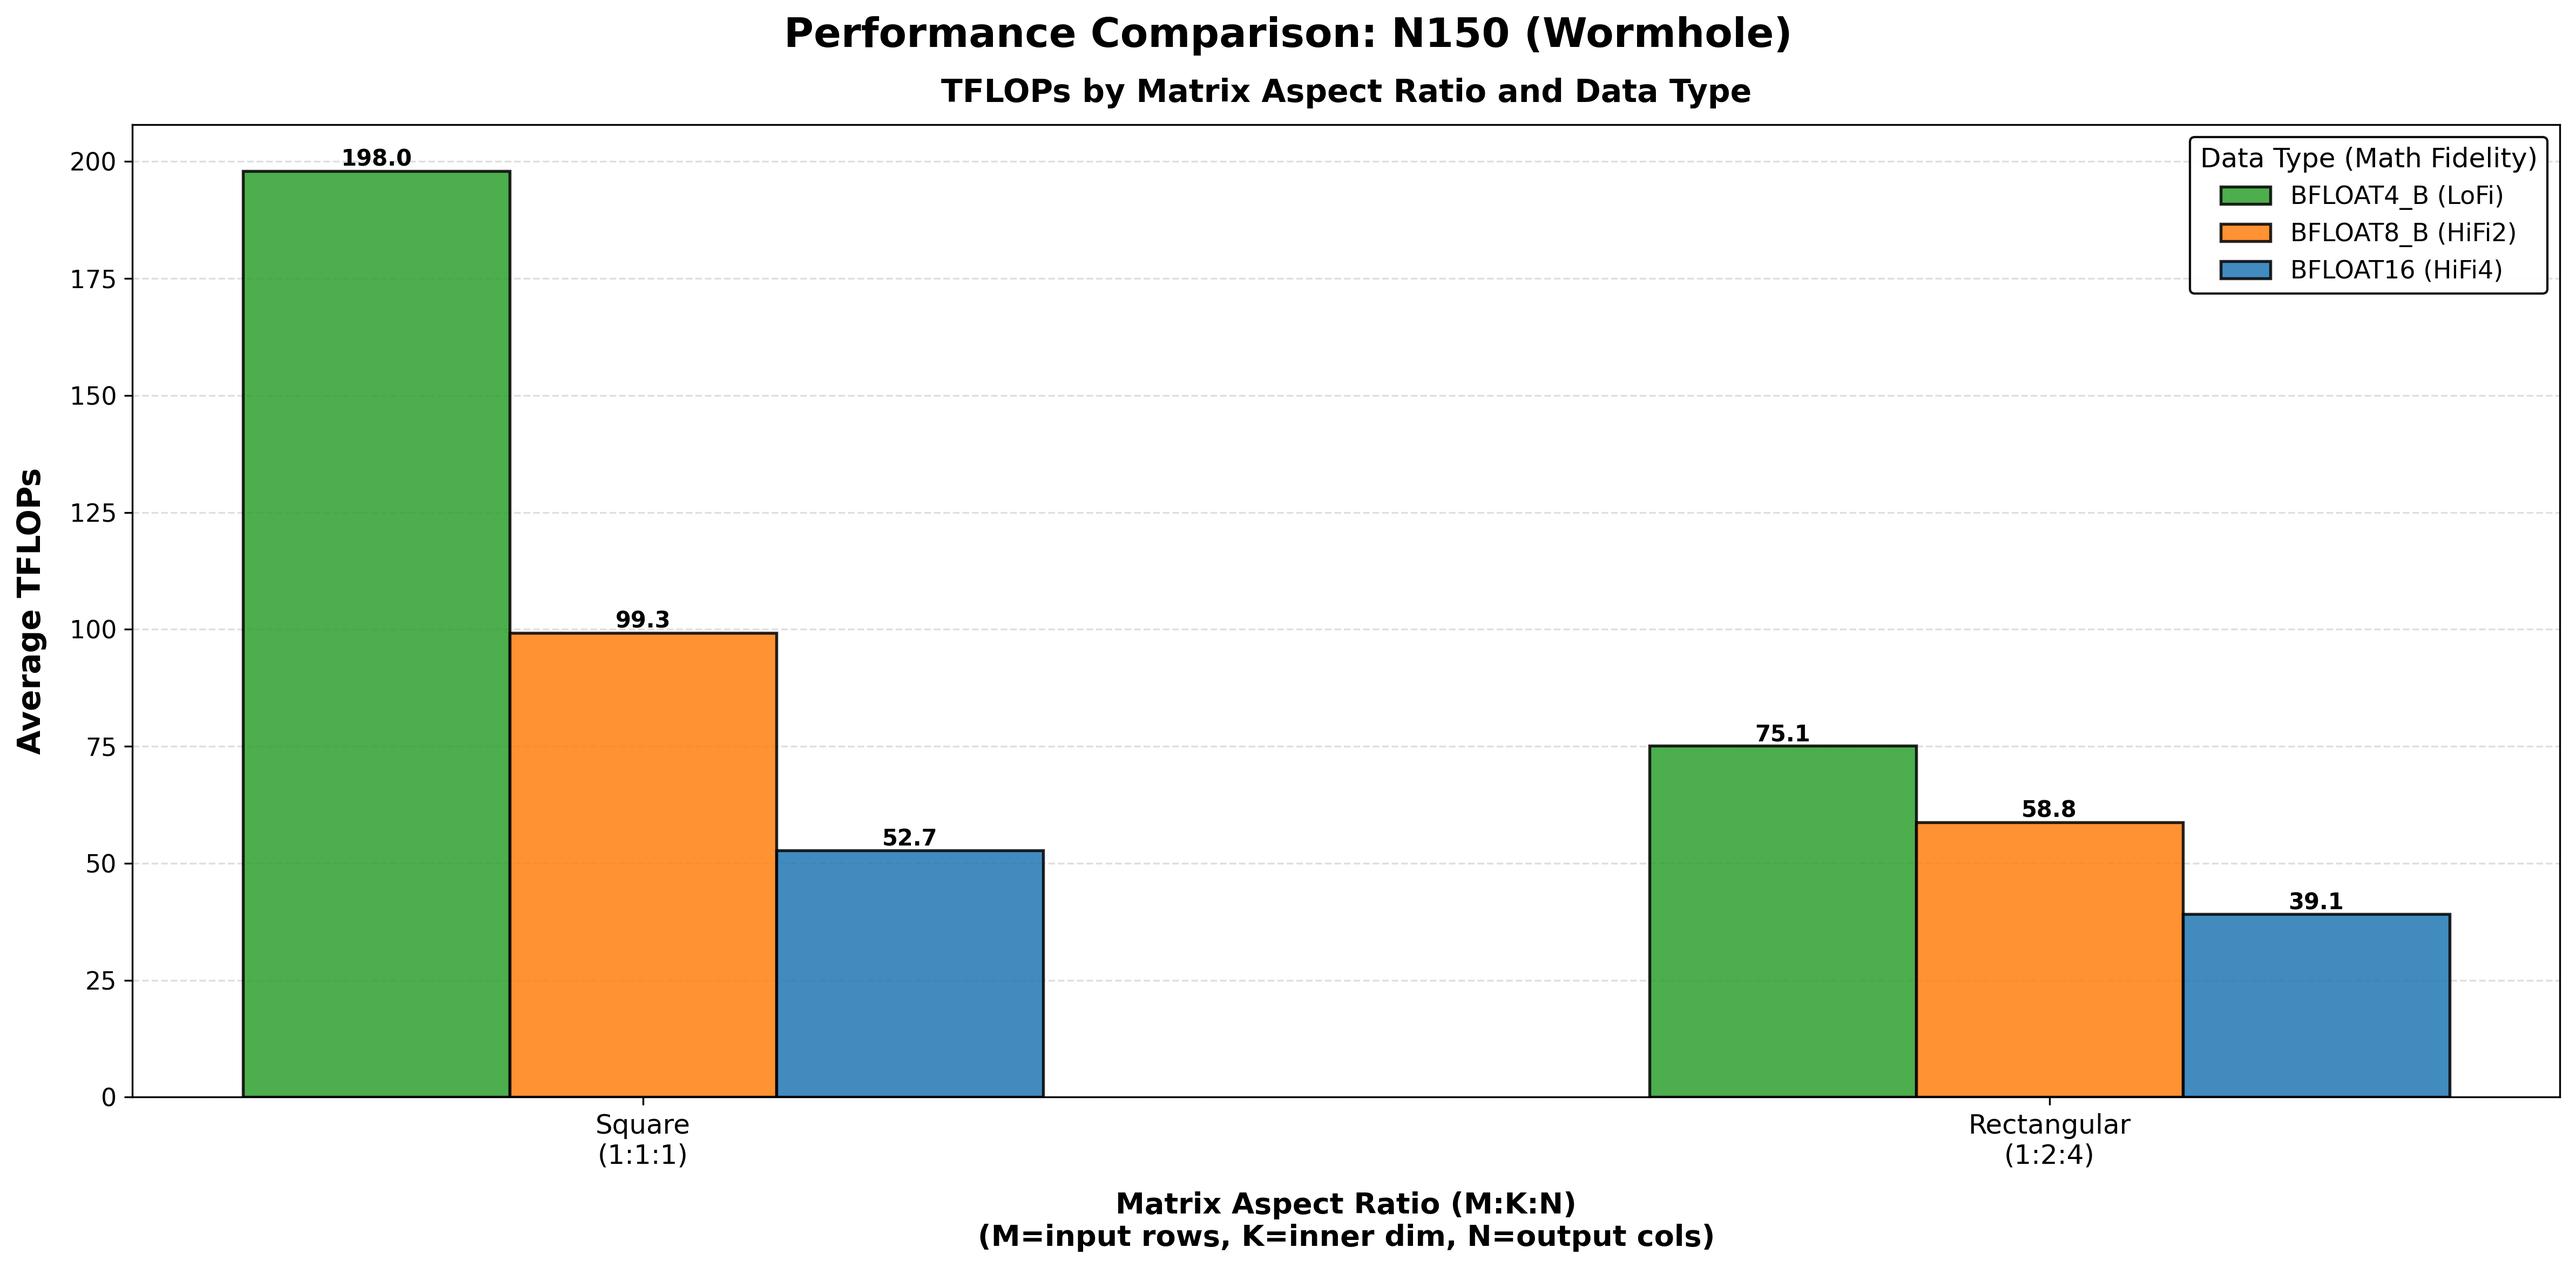
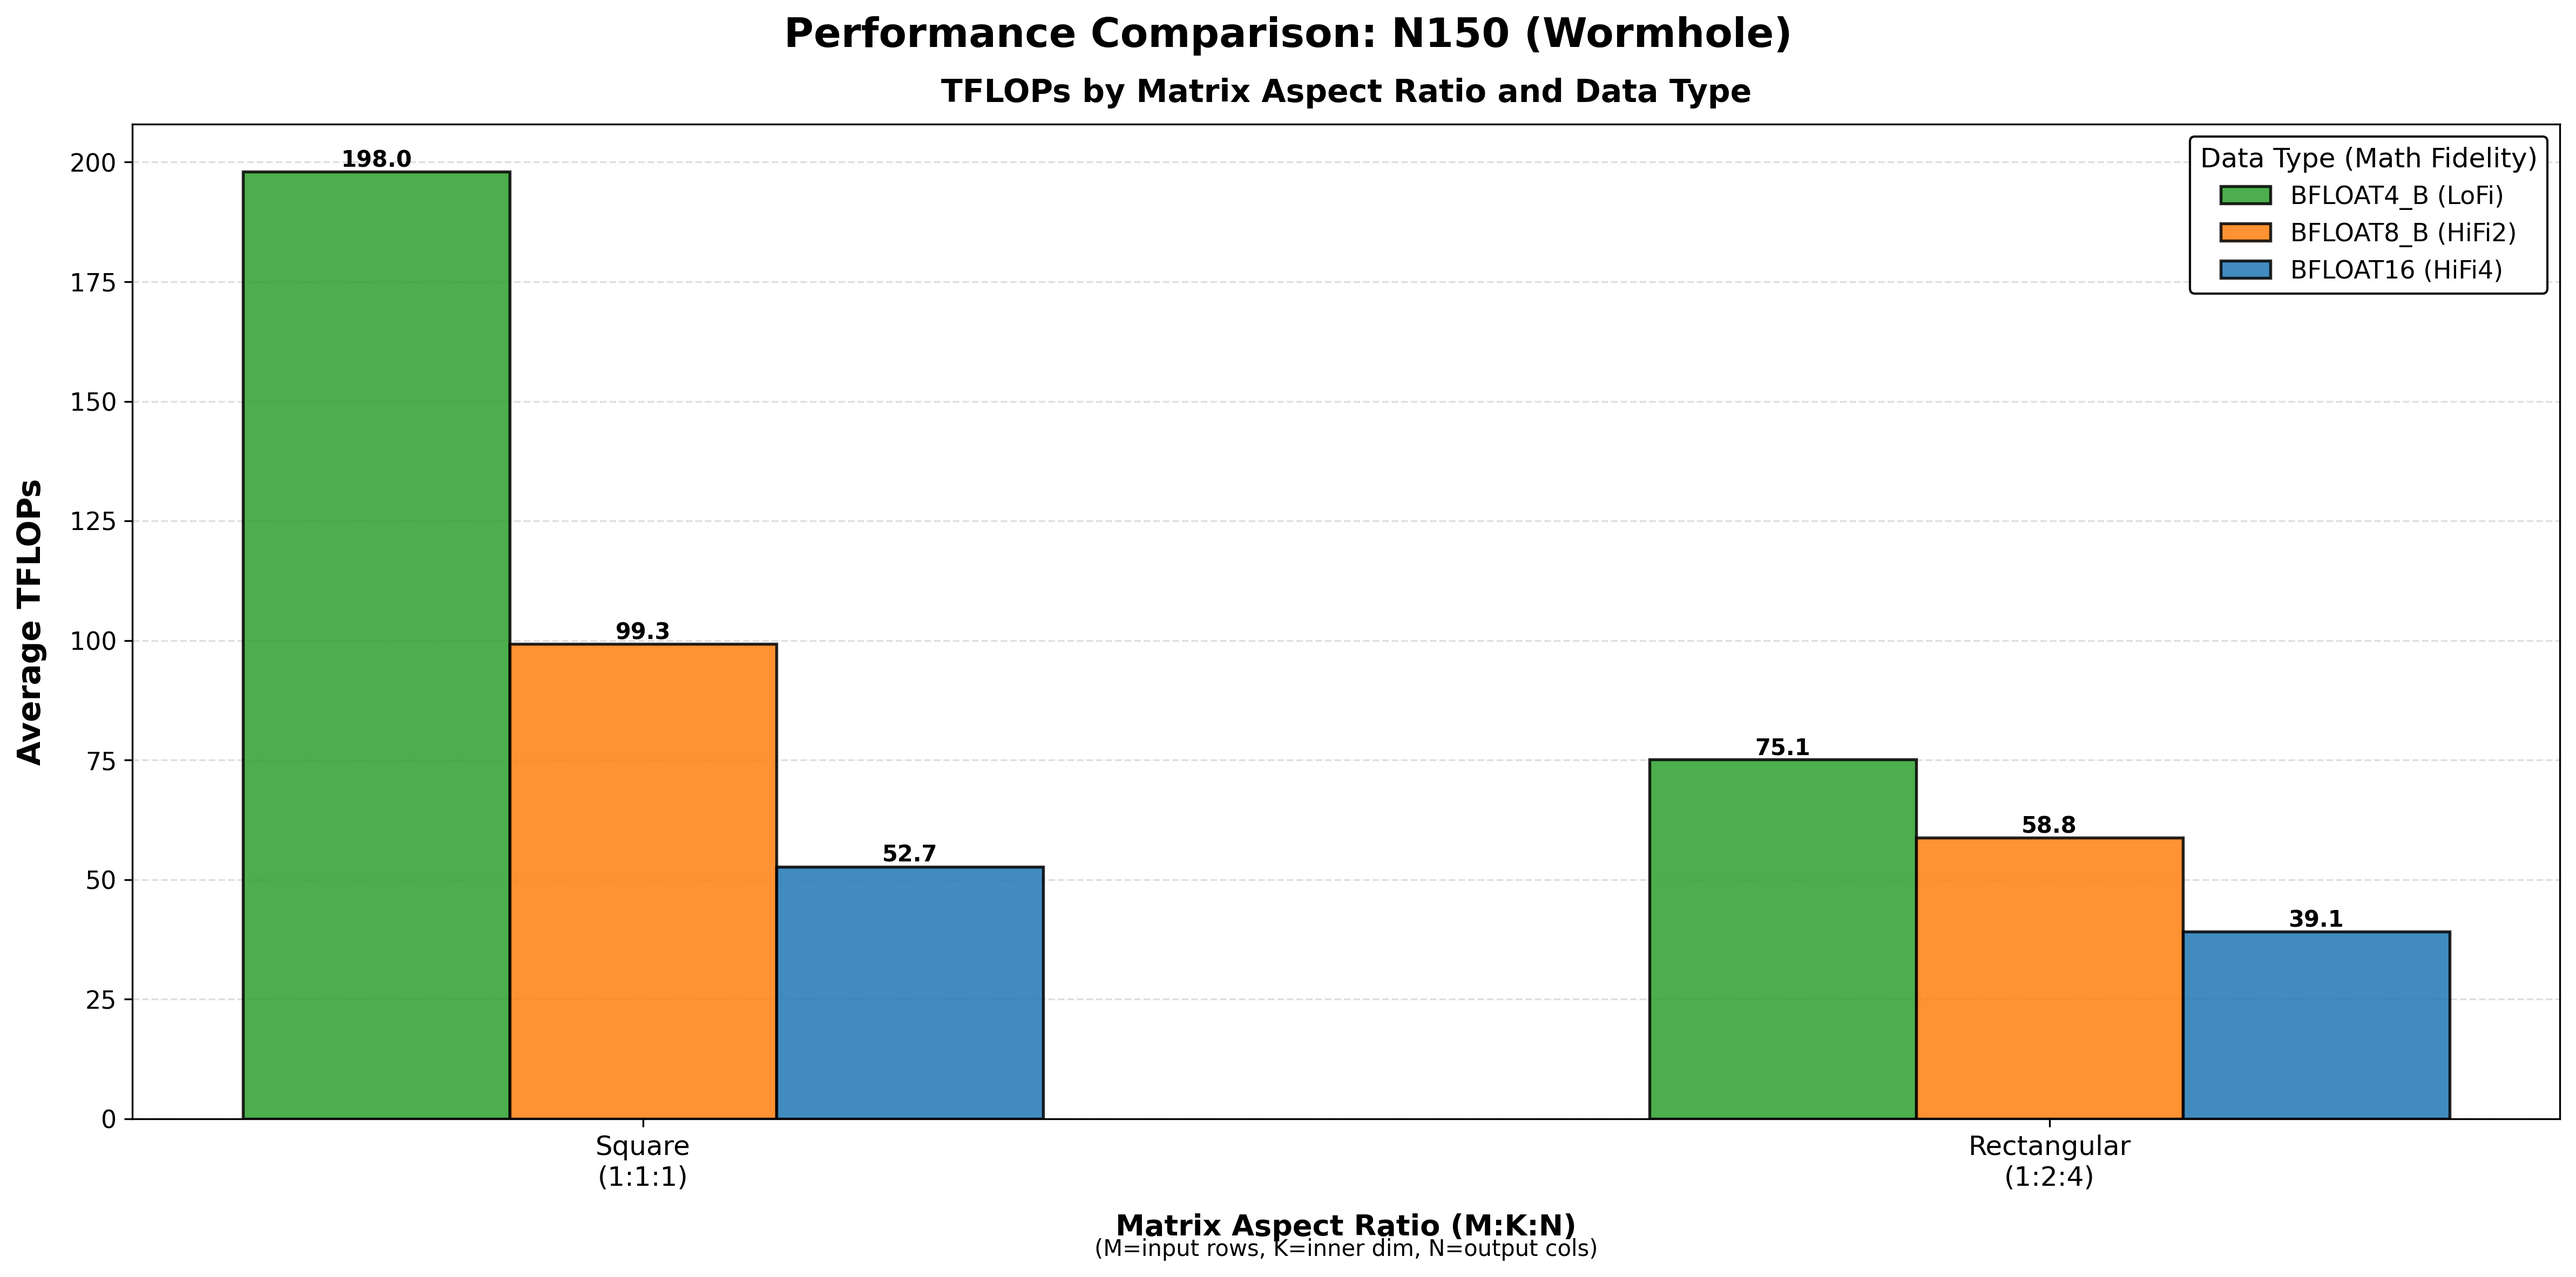
Update tech report

diff --git a/tech_reports/GEMM_FLOPS/plot_aspect_ratio_by_dtype.py b/tech_reports/GEMM_FLOPS/plot_aspect_ratio_by_dtype.py
@@ -204,10 +204,20 @@ for source in ["N150", "P150"]:
 
     ax.set_ylabel("Average TFLOPs", fontsize=14, fontweight="bold", labelpad=10)
     ax.set_xlabel(
-        "Matrix Aspect Ratio (M:K:N)\n(M=input rows, K=inner dim, N=output cols)",
+        "Matrix Aspect Ratio (M:K:N)",
         fontsize=13,
         fontweight="bold",
         labelpad=10,
+    )
+    # Add explanation below x-axis (smaller, non-bold)
+    ax.text(
+        0.5,
+        -0.12,
+        "(M=input rows, K=inner dim, N=output cols)",
+        transform=ax.transAxes,
+        ha="center",
+        va="top",
+        fontsize=10,
     )
 
     # Title matching our other plots

diff --git a/tech_reports/GEMM_FLOPS/GEMM_FLOPS.md b/tech_reports/GEMM_FLOPS/GEMM_FLOPS.md
@@ -5,13 +5,12 @@
 
 Across many families of neural networks and applications, the common denominator is the use of the generalized matrix multiply operation. Depending on the size and the precision of the input and output matrices, different underlying effects, and more importantly performance metrics, can be observed. Classically, this comes down to the hardware's ability to execute an operation, and its ability to fetch the data for that operation intercept.
 
-If the data is small and already in registers, the cost to operate on that data is negligible. If the data is in cache, performance is dictated by how quickly the data can be funnelled thought caches to the compute units. In there worst case scenarios, the data needed is in device memory, host memory, or stored on a disk.
+If the data is small and already in registers, the cost to operate on that data is negligible. If the data is in cache, performance is dictated by how quickly the data can be funnelled through caches to the compute units. In the worst case scenarios, the data needed is in device memory, host memory, or stored on a disk.
 
-Thankfully, matrix multiplication requires more compute operations (2N^3) than memory operations (3n^2). As such, for a given device, there will always be points at which a device is limited by the underlying compute units, not the underlying memory system. We call this point the roofline.
+Thankfully, matrix multiplication requires more compute operations (2N^3) than memory operations (3N^2). As such, for a given device, there will always be points at which a device is limited by the underlying compute units, not the underlying memory system. We call this point the roofline.
 However, said inversion point depends on the size and crossover point of each cache level/memory technology and the datatype in use. The amount of 8 bit elements that can be moved per unit time is nearly an order of magnitude more than 64 bit elements.
 
 Therefore, the peak achieved flops changes based on the datatype, the size of the data, and the layout of the data.
-
 
 ### Running Benchmarks
 
@@ -32,9 +31,9 @@ Python scripts for reproducing the plots are included in this directory.
 
 ## Design of Experiments
 The parameters of interest are 3 fold:
-1. **Dimensions**: The sizes of the matrices along each axis, denoted as m , n and k . (m, k) represents the size of the input tensor, while (k, n) is the size of the activation tensor.
-Larger tensors require more computation since the number of operations needed to perform matrix multiplication increases as O(m*k*n).
-2. **Computation Fidelity**: Referred to as LoFi, HiFi2, HiFi3 and HiFi4. Internally, the matrix engine can adjust the number of bits being processed, which affects both the precision of the results and the computation speed.
+1. **Dimensions**: The sizes of the matrices along each axis, denoted as M, K, and N. (M, K) represents the size of the input tensor, while (K, N) is the size of the weight matrix.
+Larger tensors require more computation since the number of operations needed to perform matrix multiplication increases as O(MKN).
+2. **Computation Fidelity**: Referred to as LoFi, HiFi2, HiFi3, and HiFi4. Internally, the matrix engine can adjust the number of bits being processed, which affects both the precision of the results and the computation speed.
 3. **Input/Output Datatype**: Larger datatypes require more memory for storage. As a result, more precise datatypes can become bottlenecked if stored in DRAM.
 
 For more details please refer to the tech reports [Matrix Engine](../matrix_engine/matrix_engine.md) and [Data Formats](../data_formats/data_formats.md)
@@ -42,18 +41,19 @@ For more details please refer to the tech reports [Matrix Engine](../matrix_engi
 For example, when changing the precision of the matrix, for a given size of matrix the output performance is expected to be different.
 
 
-## Benchmarks
+## MicroBenchmarks
 
 ### Matrix Multiplication TFLOPS on Wormhole/Blackhole (WH/BH)
 
 The WH matrix engine performs 8x16 x 16x16 = 8x16 in a single cycle.
 - This is 2*8\*16\*16 = 4096 multiply-adds in a single cycle.
-- At 1GHz, this is 4 TFLOPS per matrix engine.fed into in0, and 16x16 is the smallest matrix that can be fed into in1.
+- At 1GHz, this is 4 TFLOPS per matrix engine.
+- The 8x16 is the smallest matrix that can be fed into in0, and 16x16 is the smallest matrix that can be fed into in1.
 
 If the input matrices fed into the engine are "shorter" than 8x16, for example 1x16, the engine will still perform 8x16 x 16x16 = 8x16, but the effective throughput will be 1/8.
 Thus, for 1x16 x 16x16 matrices, the effective throughput is 0.5 TFLOPS per matrix engine.
-MATH_FIDELITY is used for higher precision, and TFLOPS are calculated by dividing by the MATH_FIDELITY value.
 
+MATH_FIDELITY is used for higher precision, and TFLOPS are calculated by dividing by the MATH_FIDELITY value.
 - LoFi ->  ~4 TFLOPS
 - HiFi2 -> ~2 TFLOPS
 - HiFi3 -> ~1.33 TFLOPS
@@ -65,15 +65,15 @@ Here we show the peak results we can get from manually selected matmul configura
 
 Depending on the fidelity, datatype, and matrix shape chosen, different peak teraflop values can be achieved.
 
-Below are the results generated from running the benchmark script, showcasing the performance of matrix multiplication (matmul) operations using matrices of sizes ranging from 512x512x512 / 640,832,832 to 16384x16384x16384 / 20480,26624,26624 . The results include evaluations across various data formats, paired with different levels of math fidelity (bfloat16-HiFi2, bfloat16-HiFi4,  bfloat8_b-HiFi2, bfloat8_b-LoFi, and bfloat4_b-LoFi).
+Below are the results generated from running the benchmark script, showcasing the performance of matrix multiplication (matmul) operations using matrices of sizes ranging from 512x512x512 / 640x832x832 to 16384x16384x16384 / 20480x26624x26624 . The results include evaluations across various data formats, paired with different levels of math fidelity (BFLOAT16 (HiFi4),  BFLOAT8_B (HiFi2), and BFLOAT4_B (LoFi)).
 
 We also show the results with and without trace (see [AdvancedPerformanceOptimizationsForModels](../AdvancedPerformanceOptimizationsForModels/AdvancedPerformanceOptimizationsForModels.md) for details of trace). With trace, we can minimize the overhead of host which can reflect the actual device performance better.
 
 
-Finally, we present the results in terms of device time, device throughput in TFLOPS, device utilization compared to the user-specified grid size and device utilization compared to the full grid size (8x8 in Wormhole/13x10 in Blackhole).
+Finally, we present the results in terms of device time, device throughput in TFLOPS, device utilization compared to the full grid size (8×8 in Wormhole and 13x10 in Blackhole).
 
 
-As seen below, while Wormhole cards can perform matrix multiplications at around 180TFlops, Blackhole cards have even more impressive throughput at 560TFlops. Lower fidelity computations with less precise datatypes computations complete faster than "full fidelity" Float16 computations. HiFi2/BFloat8 is roughly **1.5x to 1.8x faster** than HiFi4/Float16, with LoFi/Float4 coming in at **2x to 3.5x** faster without tracing.
+As seen below, while Wormhole cards can perform matrix multiplications at around 190 TFLOPs, Blackhole cards have even more impressive throughput at 580 TFLOPs. Lower fidelity computations with less precise datatypes complete faster than "full fidelity" computations. BFLOAT8_B (HiFi2) is roughly **1.5x to 1.8x faster** than BFLOAT16 (HiFi4), with BFLOAT4_B (LoFi) coming in at **2x to 3.5x** faster without tracing.
 
 
 #### Performance scatter plot across all matrix sizes and configurations
@@ -82,25 +82,25 @@ As seen below, while Wormhole cards can perform matrix multiplications at around
 
 
 #### Performance bar plot across all matrix sizes and configurations
-Note : Performance multipliers are calculated relative to N150 BFLOAT16-HiFi4 as the baseline (1.00×) for each matrix size, showing how much faster or slower each configuration performs compared to that baseline.
+Note : Performance multipliers are calculated relative to N150 BFLOAT16 (HiFi4) as the baseline (1.00×) for each matrix size, showing how much faster or slower each configuration performs compared to that baseline.
 
 ![](images/flops_by_matrix_size_and_type_sorted.png)
 
 ### Utilization
 
+#### Utilization derivation formula
 
 ```
-Utilization = ideal cycles / actual cycles. tile_width * tile_height) * (cycle_per_tile / num_cores)
+Utilization = ideal cycles / actual cycles.
+Ideal cycles = (M x K x N) / (tile_height * tile_width * tile_height) * (cycle_per_tile / num_cores)
 ```
 - Cycle_per_tile is the ideal compute cycle for each tile, which depends on math fidelity (LoFi: 16, HiFi2: 32, HiFi3: 48, HiFi4: 64).
 - For utilization of full grid size, num_cores is the maximum number of cores available for compute. Currently the max for Wormhole is 8x8 with Blackhole supporting up to 13x10.
 
-Device utilization measures how efficiently the hardware's compute cores are being used, calculated as the ratio of ideal compute cycles to actual execution cycles. Higher utilization indicates better use of available hardware resources.
-
 #### Utilization plot across all matrix sizes and configurations, based on the chip TFLOPS calculated per each Math Fidelity
 ![](images/utilization_comparison.png)
 
-Blackhole(P150) achieves excellent utilization across the board, with peak utilization reaching 97% and 61% of configurations exceeding 80% utilization. This represents a significant improvement over Wormhole (N150), which peaks at 92.38% with only 32% of configurations above 80%.
+Blackhole (P150) achieves excellent utilization across the board, with peak utilization reaching 96% and 61% of configurations exceeding 80% utilization. This represents a significant improvement over Wormhole (N150), which peaks at ~93% with only 32% of configurations above 80%.
 
 ### Understanding Device Scaling: SRAM vs DRAM
 
@@ -144,7 +144,7 @@ Both architectures perform most ideally when the input tensors are closest to sq
 
 #### Out of Box Performance
 We also show the peak results we can get based on auto-selected matmul configurations.
-On both Wormhole and Blackhole, hand tuned configs helps recover more lost performance on smaller tensor matrix multiplications compared to larger ones. Similar to tracing, the configuration matters more for smaller tensors, as it is harder to saturate the core grid with smaller workloads compared to larger ones.
+On both Wormhole and Blackhole, hand-tuned configs helps recover more lost performance on smaller tensor matrix multiplications compared to larger ones. Similar to tracing, the configuration matters more for smaller tensors, as it is harder to saturate the core grid with smaller workloads compared to larger ones.
 
 
 <details>
